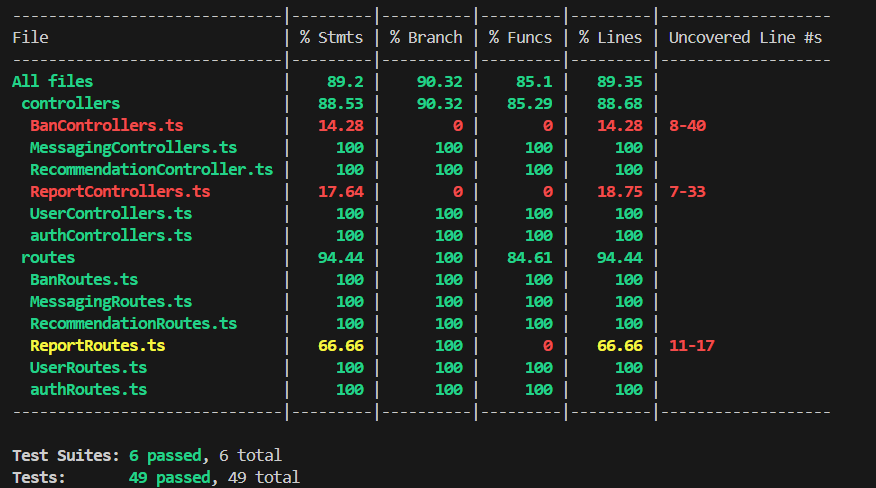
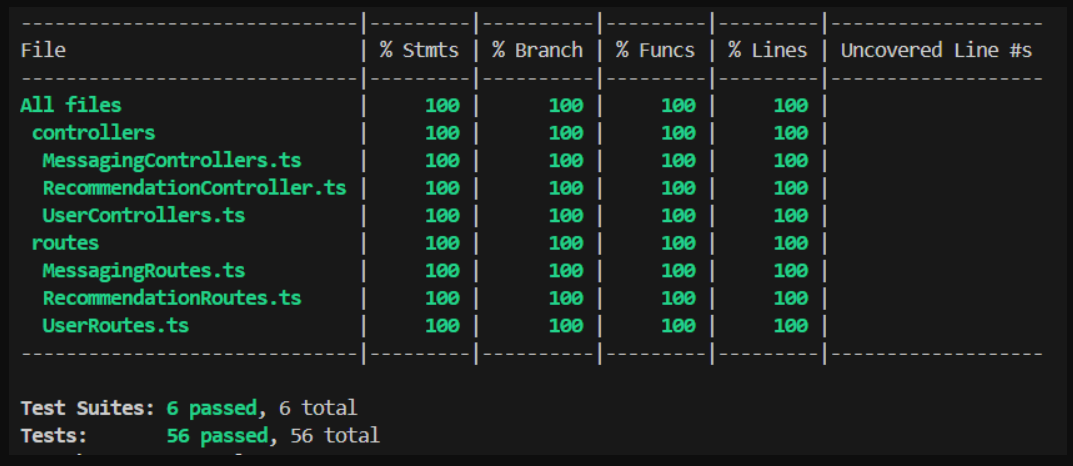
final tests implementation

diff --git a/android_app/app/src/androidTest/java/com/example/cpen321project/ManageProfileTest.kt b/android_app/app/src/androidTest/java/com/example/cpen321project/ManageProfileTest.kt
@@ -2,7 +2,6 @@ package com.example.cpen321project
 
 import android.util.Log
 import androidx.test.espresso.Espresso.onView
-import androidx.test.espresso.Espresso.pressBack
 import androidx.test.espresso.action.ViewActions.clearText
 import androidx.test.espresso.action.ViewActions.click
 import androidx.test.espresso.action.ViewActions.typeText
@@ -53,7 +52,7 @@ class ManageProfileTest {
 
         onView(withId(R.id.Sign_In_Button)).perform(click())
         Thread.sleep(1000)
-        val accountSelector = device.findObject(UiSelector().textContains("hellothisworld2000@gmail.com")) // Replace with part of email
+        val accountSelector = device.findObject(UiSelector().textContains("alexeidelrayo@gmail.com")) // Replace with part of email
         if (accountSelector.exists()) {
             accountSelector.click()
         } else {
@@ -70,7 +69,6 @@ class ManageProfileTest {
         Thread.sleep(1000)
 
         onView(withId(R.id.editTextNumberDecimal)).check(matches(withText("25.0")))
-        pressBack()
 
         onView(withId(R.id.save_button)).perform(click())
 
@@ -85,7 +83,6 @@ class ManageProfileTest {
         Thread.sleep(1000)
 
         onView(withId(R.id.editTextNumberDecimal)).check(matches(withText(randomDecimal)))
-        pressBack()
 
         // Click Save Button
         onView(withId(R.id.save_button)).perform(click())
@@ -108,7 +105,7 @@ class ManageProfileTest {
 
         onView(withId(R.id.Sign_In_Button)).perform(click())
         Thread.sleep(1000)
-        val accountSelector = device.findObject(UiSelector().textContains("hellothisworld2000@gmail.com")) // Replace with part of email
+        val accountSelector = device.findObject(UiSelector().textContains("alexeidelrayo@gmail.com")) // Replace with part of email
         if (accountSelector.exists()) {
             accountSelector.click()
         } else {
@@ -122,7 +119,6 @@ class ManageProfileTest {
 
         val randomDecimal = String.format("%.1f", Random.Default.nextDouble(1.0, 20.0));
         onView(withId(R.id.editTextNumberDecimal)).perform(clearText(), typeText(randomDecimal));
-        pressBack();
 
         val startTime = System.currentTimeMillis();
         onView(withId(R.id.save_button)).perform(click());

diff --git a/android_app/app/src/androidTest/java/com/example/cpen321project/RecommendationTest.kt b/android_app/app/src/androidTest/java/com/example/cpen321project/RecommendationTest.kt
@@ -57,7 +57,7 @@ class RecommendationTest {
             .perform(click())
         Thread.sleep(3000)
         val device = UiDevice.getInstance(InstrumentationRegistry.getInstrumentation())
-        var accountSelector = device.findObject(UiSelector().textContains("yuqianyi1409@gmail.com")) // Replace with part of email
+        var accountSelector = device.findObject(UiSelector().textContains("alexeidelrayo@gmail.com")) // Replace with part of email
         if (accountSelector.exists()) {
             accountSelector.click() // Click the first available Google account
         } else {
@@ -68,7 +68,7 @@ class RecommendationTest {
         Thread.sleep(5000) // Adjust as needed, or use IdlingResource
 
         // 1. Click "Recommendation" Button in HomeActivity
-        onView(withId(R.id.recommendationButton))
+        onView(withId(R.id.recommendationB))
             .check(matches(isDisplayed()))
             .perform(click())
 
@@ -105,7 +105,7 @@ class RecommendationTest {
 
         // 5. Most recommended jogger is well displayed
         onView(withId(R.id.recommendationRecyclerView)).check(matches(isDisplayed()))
-
+        val t2  = System.currentTimeMillis()
         assertTrue("Schedule upload took more than 4s", t2 - t1 < 4000)
 
         Log.d(TAG, "Test 3: Successfully get recommendation in ${t2 - t1}ms!")
@@ -121,14 +121,5 @@ class RecommendationTest {
 
         Intents.intended(IntentMatchers.hasComponent(MapsActivity::class.java.name))
 
-        Thread.sleep(12000)
-
-        // 7. Click the first "Message" button and navigate to Message Activity
-        onView(withId(R.id.recommendationRecyclerView))
-            .perform(RecyclerViewActions.actionOnItemAtPosition<RecommendationAdapter.ViewHolder>(0, click()))
-        onView(allOf(
-            withId(R.id.addUserButton),
-            isDisplayed()
-        )).perform(click())
     }
 }

diff --git a/android_app/app/src/androidTest/java/com/example/cpen321project/MessagingTest.kt b/android_app/app/src/androidTest/java/com/example/cpen321project/MessagingTest.kt
@@ -56,7 +56,7 @@ class MessagingTest {
         // Wait for the account selector to show up
         Thread.sleep(5000)
         val accountSelector =
-            device.findObject(UiSelector().textContains("hellothisworld2000@gmail.com")) // Replace with part of email
+            device.findObject(UiSelector().textContains("alexeidelrayo@gmail.com")) // Replace with part of email
         if (accountSelector.exists()) {
             accountSelector.click()
         } else {
@@ -66,8 +66,8 @@ class MessagingTest {
         // Wait for HomeActivity to load
         Thread.sleep(5000)
         // Click "My Groups" Button in HomeActivity
-        onView(withId(R.id.groups_button)).perform(click())
-
+        onView(withId(R.id.groups_b)).perform(click())
+        Thread.sleep(5000)
         Intents.intended(hasComponent(ManageChats::class.java.name))
 
         onView(withId(R.id.recyclerView)).perform(RecyclerViewActions.

diff --git a/android_app/app/src/main/java/com/example/cpen321project/HomeActivity.kt b/android_app/app/src/main/java/com/example/cpen321project/HomeActivity.kt
@@ -40,7 +40,21 @@ class HomeActivity : AppCompatActivity() {
             startActivity(intent)
         }
 
+        findViewById<Button>(R.id.recommendationB).setOnClickListener {
+            val intent = Intent(this, Recommendation::class.java)
+            intent.putExtra("tkn", tkn)
+            intent.putExtra("email", email)
+            startActivity(intent)
+        }
+
         findViewById<LinearLayout>(R.id.groups_button).setOnClickListener() {
+            val intent = Intent(this, ManageChats::class.java)
+            intent.putExtra("tkn", tkn)
+            intent.putExtra("email", email)
+            startActivity(intent)
+        }
+
+        findViewById<Button>(R.id.groups_b).setOnClickListener() {
             val intent = Intent(this, ManageChats::class.java)
             intent.putExtra("tkn", tkn)
             intent.putExtra("email", email)

diff --git a/documentation/M5_Testing_and_Code_Review.md b/documentation/M5_Testing_and_Code_Review.md
@@ -93,7 +93,7 @@ Please note that our team was not required to test BanControllers, BanRoutes, Re
 
 ### 2.4. Jest Coverage Report Screenshots Without Mocks
 
-![Jest Tests, no mocks](images/jest_tests_no_mocks.png)
+![Jest Tests, no mocks](images/jest_tests.png)
 
 Please note that our team was not required to test BanControllers, BanRoutes, ReportRoutes, nor ReportControllers due to team reduction.
 
